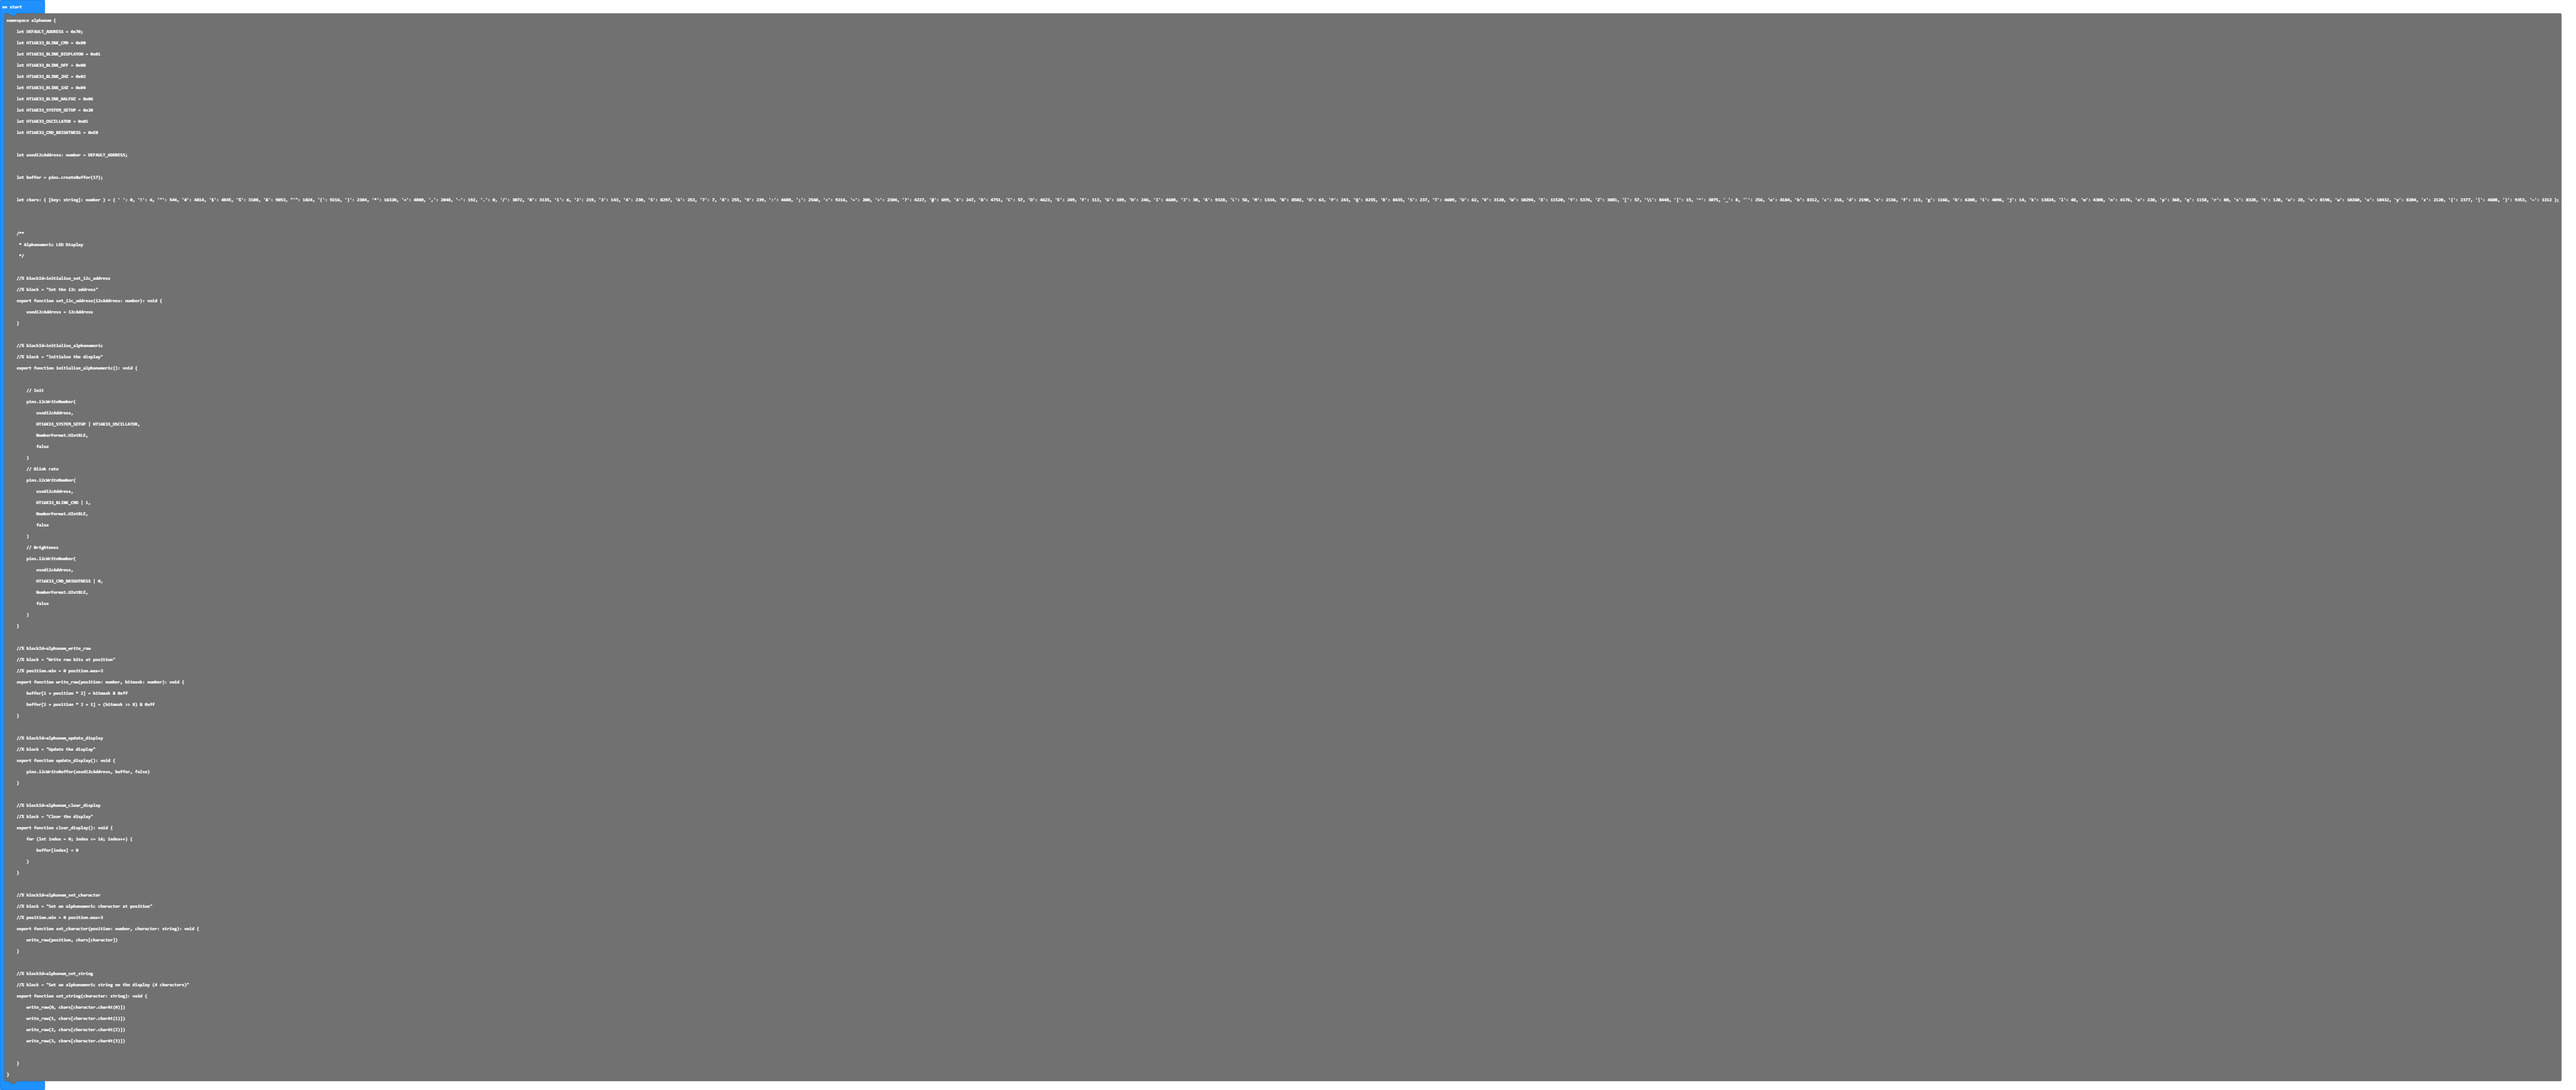
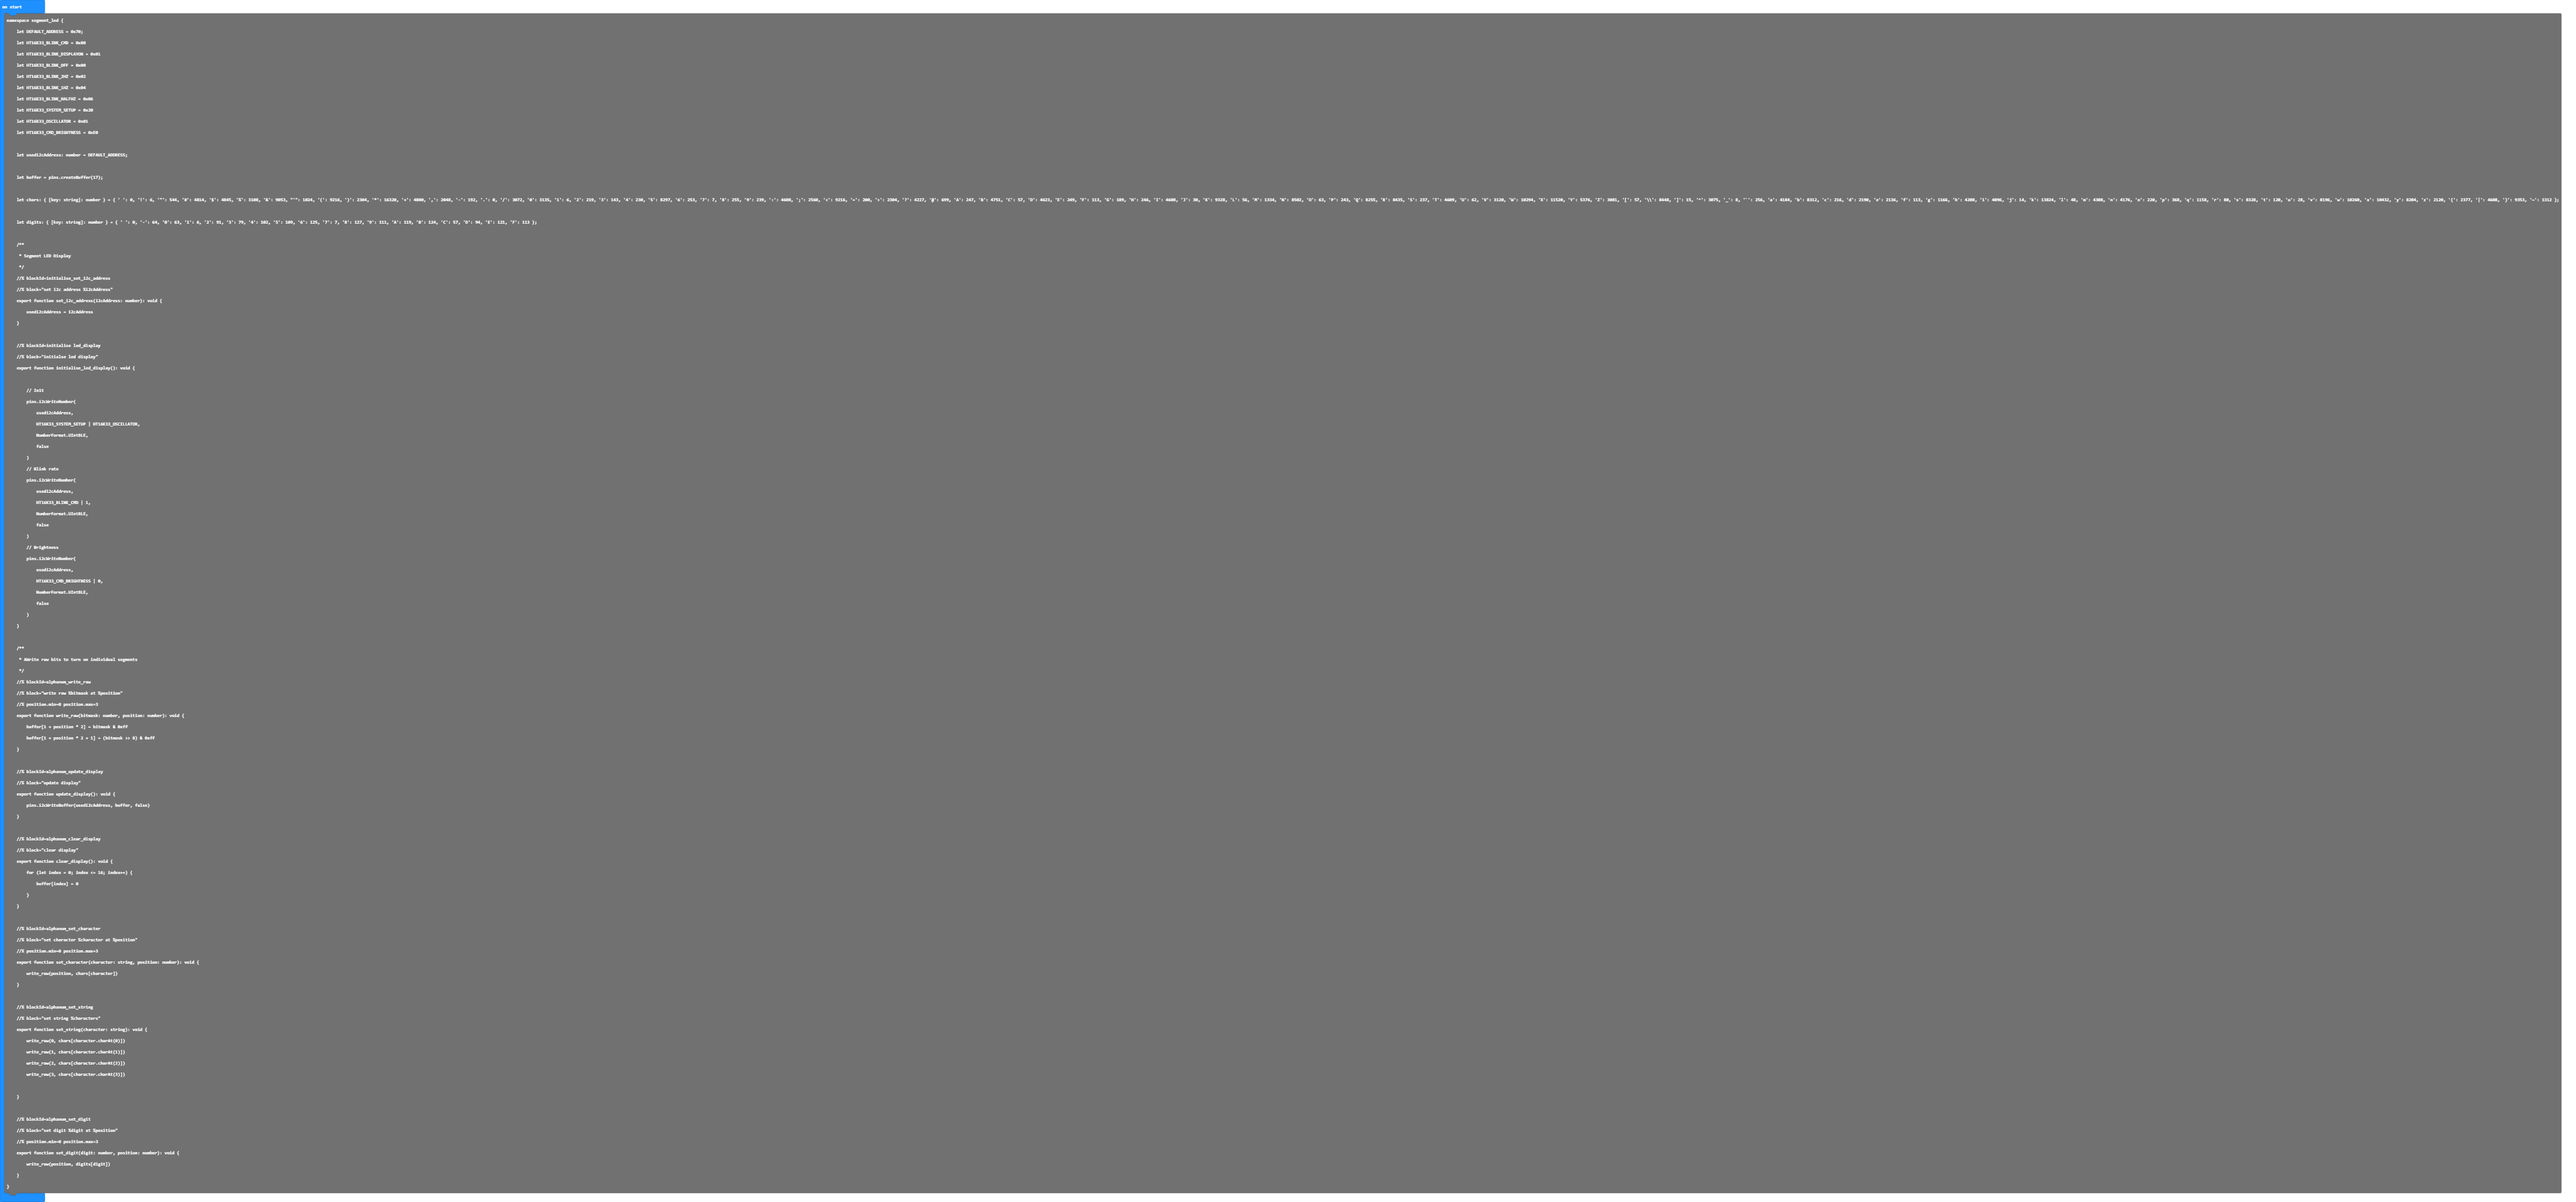
Update pxt.json, main.blocks, main.ts

Changed region(s): [[0.0, 0.216, 0.0623, 0.9568], [0.0, 0.0, 0.1556, 0.1852], [0.5914, 0.1543, 0.6226, 0.1852]]

diff --git a/main.ts b/main.ts
@@ -1,8 +1,8 @@
 /**
  * Controls the Adafruit 7-segment and 14-segment numeric/character led displays
  */
-//% color="coral" icon="\uf06e"
-namespace alphanum {
+//% color="#ff7f50" icon="\uf06e" block="Segment LED"
+namespace segment_led {
     let DEFAULT_ADDRESS = 0x70;
     let HT16K33_BLINK_CMD = 0x80
     let HT16K33_BLINK_DISPLAYON = 0x01
@@ -26,13 +26,13 @@ namespace alphanum {
      * Segment LED Display
      */
     //% blockId=initialise_set_i2c_address
-    //% block = "Set the i2c address"
+    //% block="set i2c address %i2cAddress"
     export function set_i2c_address(i2cAddress: number): void {
         usedi2cAddress = i2cAddress
     }
 
     //% blockId=initialise led_display
-    //% block = "Initialse the display"
+    //% block="initialse led display"
     export function initialise_led_display(): void {
 
         // Init
@@ -62,21 +62,21 @@ namespace alphanum {
      * AWrite raw bits to turn on individual segments
      */
     //% blockId=alphanum_write_raw
-    //% block = "Write raw bits $bitmask at $position"
+    //% block="write raw %bitmask at %position"
     //% position.min=0 position.max=3
-    export function write_raw(position: number, bitmask: number): void {
+    export function write_raw(bitmask: number, position: number): void {
         buffer[1 + position * 2] = bitmask & 0xff
         buffer[1 + position * 2 + 1] = (bitmask >> 8) & 0xff
     }
 
     //% blockId=alphanum_update_display
-    //% block = "Update the display"
+    //% block="update display"
     export function update_display(): void {
         pins.i2cWriteBuffer(usedi2cAddress, buffer, false)
     }
 
     //% blockId=alphanum_clear_display
-    //% block = "Clear the display"
+    //% block="clear display"
     export function clear_display(): void {
         for (let index = 0; index <= 16; index++) {
             buffer[index] = 0
@@ -84,14 +84,14 @@ namespace alphanum {
     }
 
     //% blockId=alphanum_set_character
-    //% block = "Set an alphanumeric character at $position"
+    //% block="set character %character at %position"
     //% position.min=0 position.max=3
-    export function set_character(position: number, character: string): void {
+    export function set_character(character: string, position: number): void {
         write_raw(position, chars[character])
     }
 
     //% blockId=alphanum_set_string
-    //% block = "Set an alphanumeric string on the display (4 characters)"
+    //% block="set string %characters"
     export function set_string(character: string): void {
         write_raw(0, chars[character.charAt(0)])
         write_raw(1, chars[character.charAt(1)])
@@ -101,9 +101,9 @@ namespace alphanum {
     }
 
     //% blockId=alphanum_set_digit
-    //% block = "Set a numberic digit at $position"
+    //% block="set digit %digit at %position"
     //% position.min=0 position.max=3
-    export function set_digit(position: number, digit: number): void {
+    export function set_digit(digit: number, position: number): void {
         write_raw(position, digits[digit])
     }
 }
